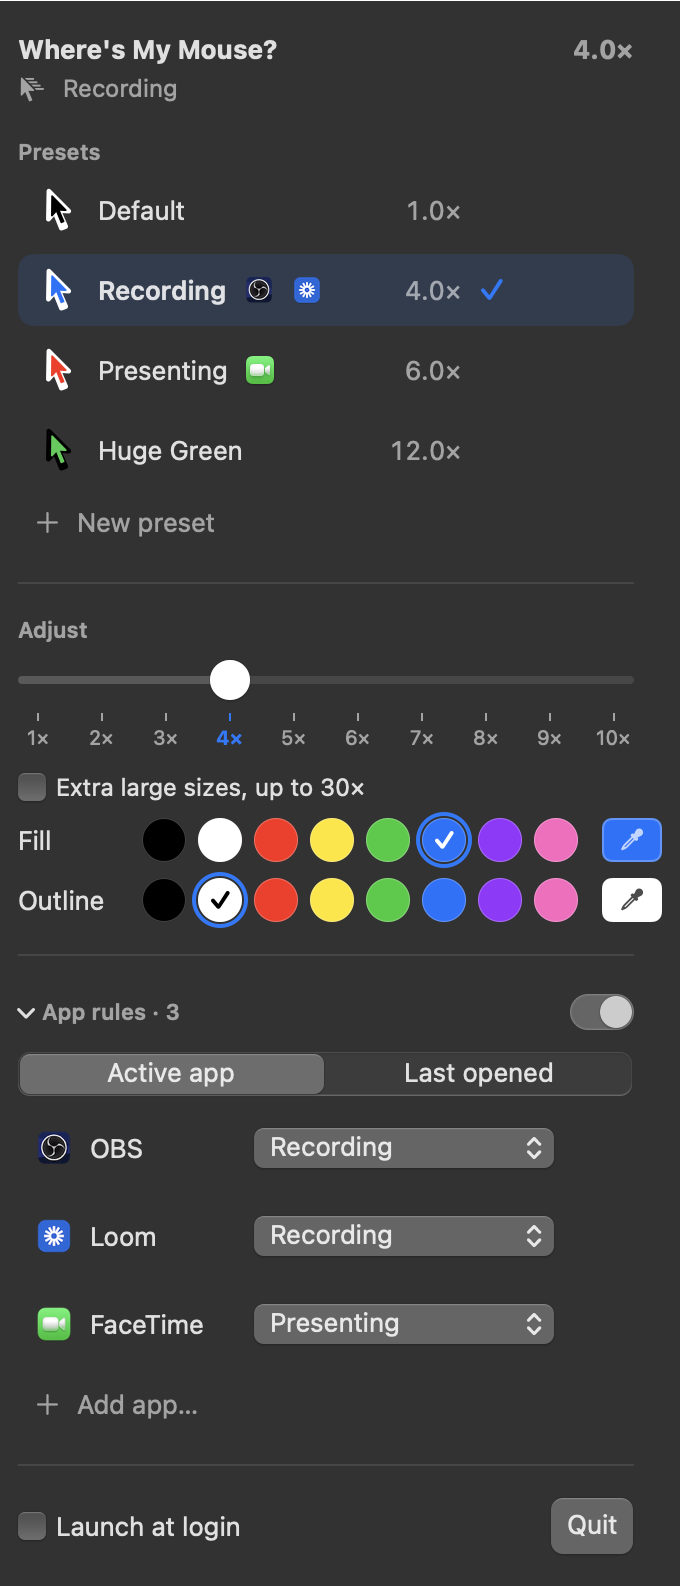
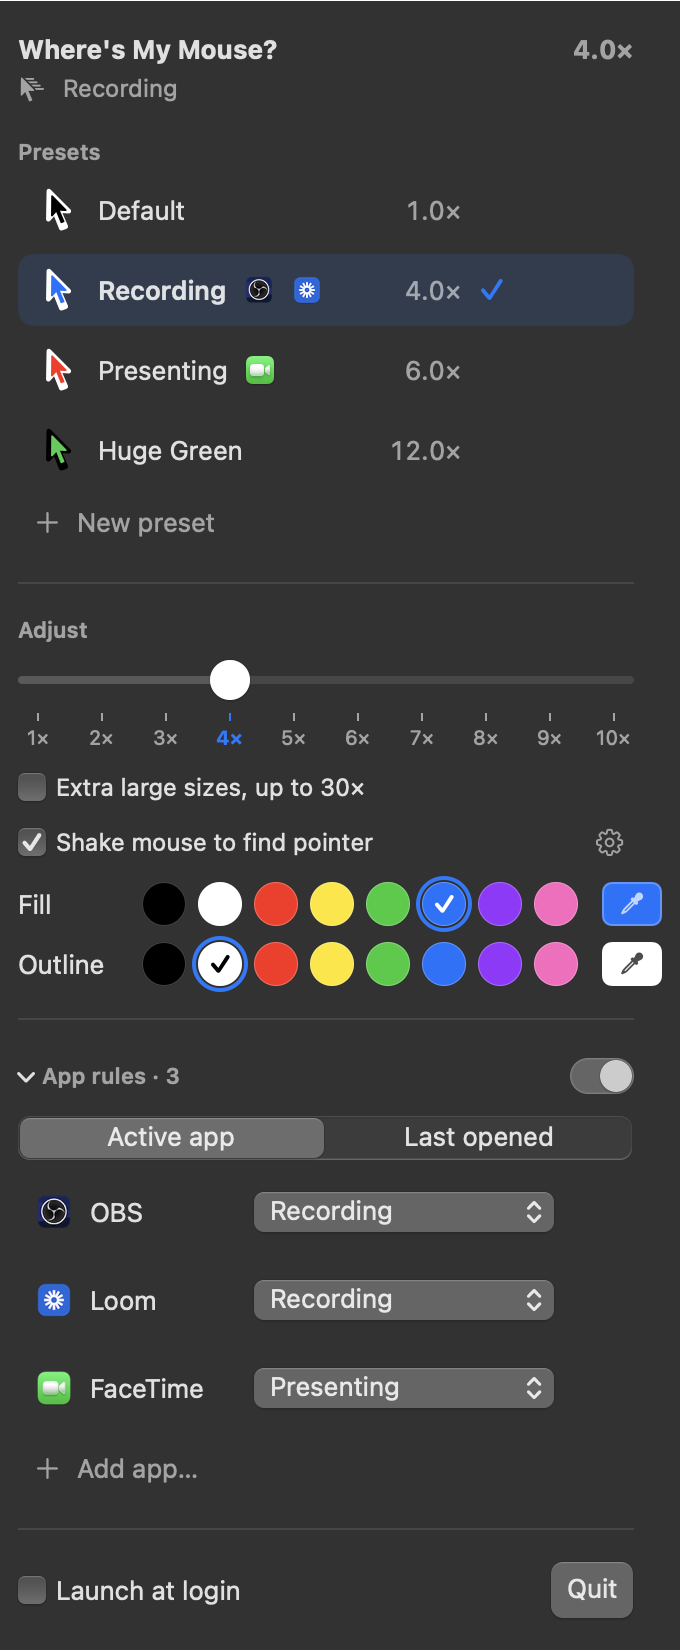
Shake-to-find toggle, explicit pin instead of auto re-pin, site Settings dropdown and new hero copy
- Menu: 'Shake mouse to find pointer' switch (+ link to Pointer settings)
- Picking a preset no longer moves app rules; a 'Pin X to App' button offers it
- Site: menu screenshot moved to a nav 'Settings' dropdown; hero copy about shaking, wiggling, slamming into corners

diff --git a/site/index.html b/site/index.html
@@ -66,7 +66,7 @@
   }
   .hero h1 .q { background: var(--rainbow); -webkit-background-clip: text; background-clip: text; color: transparent; }
   .hero .sub { font-size: clamp(22px, 2.6vw, 30px); color: var(--text); margin: 0 0 8px; font-weight: 700; }
-  .hero .joke { color: var(--muted); margin: 0 0 30px; }
+  .hero .joke { max-width: 540px; color: var(--muted); margin: 0 0 30px; }
   .btn {
     display: inline-flex; align-items: center; gap: 10px;
     background: var(--text); color: #0d0e16; font-weight: 800; font-size: 18px;
@@ -79,14 +79,26 @@
   .fine { color: var(--faint); font-size: 14px; margin-top: 14px; }
   .nomore { font-weight: 800; font-size: 19px; margin: -14px 0 28px; color: var(--blue-soft); }
 
+  /* "Settings" in the nav opens the real menu, like a menu bar item */
+  .settings { position: relative; }
+  #settings-btn { display: inline-flex; align-items: center; gap: 6px; border: 1px solid var(--line); background: var(--panel); color: var(--text);
+    font: inherit; font-size: 15px; font-weight: 700; padding: 6px 12px; border-radius: 999px; cursor: pointer; }
+  #settings-btn[aria-expanded=true] { background: var(--text); color: #0d0e16; }
+  .settings-pop { position: absolute; right: 0; top: calc(100% + 10px); z-index: 50; width: 340px; padding: 10px; border-radius: 16px;
+    background: rgba(23,26,42,0.96); border: 1px solid var(--line); box-shadow: 0 30px 90px rgba(0,0,0,0.6); }
+  .settings-pop img { display: block; width: 100%; height: auto; border-radius: 10px; }
+  .settings-pop p { margin: 10px 4px 2px; color: var(--muted); font-size: 14px; text-align: center; }
+  nav .links { align-items: center; }
+  @media (max-width: 560px) { .settings-pop { position: fixed; left: 16px; right: 16px; top: 64px; width: auto; max-height: 80vh; overflow: auto; } }
+
   /* hero art: a giant translucent rainbow pointer behind the hero */
   .hero-zone { position: relative; overflow: hidden; }
   .hero-art {
     position: absolute; z-index: 0; pointer-events: none;
-    top: 24px; right: -90px; width: min(60vw, 700px); height: auto; opacity: 0.5;
+    top: 40px; right: max(2vw, calc(50vw - 600px)); width: min(36vw, 440px); height: auto; opacity: 0.5;
   }
   .hero-zone .wrap { position: relative; z-index: 1; }
-  .hero-grid { display: grid; grid-template-columns: 0.85fr 1.15fr; gap: 48px; align-items: center; }
+  .hero-grid { display: grid; grid-template-columns: minmax(0, 760px); gap: 48px; align-items: center; }
   .hero-shot { justify-self: center; width: min(100%, 340px); }
   .hero-shot img { width: 100%; height: auto; border-radius: 16px; border: 1px solid var(--line); box-shadow: 0 30px 90px rgba(0,0,0,0.55); display: block; }
 
@@ -362,6 +374,15 @@
     <nav>
       <a class="brand" href="#"><img src="assets/icon.png" alt="">Where's My Mouse?</a>
       <div class="links">
+        <div class="settings">
+          <button type="button" id="settings-btn" aria-expanded="false" aria-controls="settings-pop">
+            <img src="assets/favicon.png" alt="" width="16" height="16"> Settings <span aria-hidden="true">▾</span>
+          </button>
+          <div class="settings-pop" id="settings-pop" hidden>
+            <img src="assets/menu-dark.png" width="340" height="825" alt="The Where's My Mouse? menu: presets with pinned apps, size slider, colors, and app rules">
+            <p>That's the whole app. It lives in your menu bar.</p>
+          </div>
+        </div>
         <a class="hide-sm" href="#uses">Use cases</a>
         <a class="hide-sm" href="#features">Features</a>
         <a class="hide-sm" href="#faq">FAQ</a>
@@ -371,14 +392,10 @@
 
     <header class="hero">
       <div class="hero-grid">
-        <div class="hero-shot">
-          <img src="assets/menu-dark.png" width="300" height="651"
-               alt="The Where's My Mouse? menu: presets with pinned apps, a size slider, fill and outline colors, and app rules">
-        </div>
         <div>
           <h1>Where's My<br><span class="q">Mouse?</span></h1>
-          <p class="sub">It's right there. It's enormous now.</p>
-          <p class="joke">Make your Mac's pointer up to 30× bigger, in any color, from the menu bar.</p>
+          <p class="sub">Stop shaking your mouse to find it.</p>
+          <p class="joke">We all do it: shake it, wiggle it, slam it into a corner of the screen. Where's My Mouse? makes your pointer impossible to miss instead, up to 30× bigger and in any color, right from the menu bar.</p>
           <p class="nomore">No more “Can you see my mouse?”</p>
           <a class="btn" href="https://github.com/andrewkamphey/WheresMyMouse/releases/latest/download/WheresMyMouse.dmg">
             <svg viewBox="0 0 24 24" fill="currentColor" aria-hidden="true"><path d="M16.4 12.6c0-2.6 2.1-3.8 2.2-3.9-1.2-1.8-3.1-2-3.7-2-1.6-.2-3.1.9-3.9.9-.8 0-2-.9-3.4-.9-1.7 0-3.3 1-4.2 2.6-1.8 3.1-.5 7.7 1.3 10.2.8 1.2 1.8 2.6 3.1 2.6 1.2-.1 1.7-.8 3.2-.8 1.5 0 1.9.8 3.2.8 1.3 0 2.2-1.2 3-2.4.9-1.4 1.3-2.7 1.3-2.8-.1 0-2.6-1-2.6-3.9zM13.9 5c.7-.8 1.1-1.9 1-3-1 0-2.2.7-2.9 1.5-.6.7-1.2 1.8-1 2.9 1.1.1 2.2-.6 2.9-1.4z"/></svg>
@@ -652,6 +669,16 @@
     window.addEventListener('resize', queue);
     toggle.addEventListener('click', function () { set(!root.classList.contains('grow-ptr')); });
     draw();
+  })();
+</script>
+<script>
+  // Nav "Settings": opens the menu screenshot like a menu bar dropdown; Escape or a click outside closes it.
+  (function () {
+    var btn = document.getElementById('settings-btn'), pop = document.getElementById('settings-pop');
+    function set(open) { pop.hidden = !open; btn.setAttribute('aria-expanded', String(open)); }
+    btn.addEventListener('click', function (e) { e.stopPropagation(); set(pop.hidden); });
+    document.addEventListener('click', function (e) { if (!pop.hidden && !pop.contains(e.target)) set(false); });
+    document.addEventListener('keydown', function (e) { if (e.key === 'Escape') set(false); });
   })();
 </script>
 </body>

diff --git a/Sources/PointerStore.swift b/Sources/PointerStore.swift
@@ -10,6 +10,7 @@ final class PointerStore: ObservableObject {
     @Published private(set) var customPresets: [Preset] = []
     @Published private(set) var hasFullDiskAccess = CursorController.hasFullDiskAccess
     @Published private(set) var launchAtLogin = SMAppService.mainApp.status == .enabled
+    @Published private(set) var shakeToLocate = CursorController.shakeToLocate
     /// The custom preset being edited, if any.
     @Published var editingPresetID: UUID?
     /// The preset last picked from the list (or by an app rule).
@@ -86,6 +87,7 @@ final class PointerStore: ObservableObject {
         outline = CursorController.outline ?? outline
         hasFullDiskAccess = CursorController.hasFullDiskAccess
         launchAtLogin = SMAppService.mainApp.status == .enabled
+        shakeToLocate = CursorController.shakeToLocate
     }
 
     // MARK: Live adjustments
@@ -165,18 +167,22 @@ final class PointerStore: ObservableObject {
     func select(_ preset: Preset) {
         if editingPresetID != preset.id { editingPresetID = nil }
         apply(preset)
-        repinControllingApp(to: preset)
     }
 
-    /// While a ruled app is in control (e.g. Claude is active), picking a preset pins that
-    /// app to it, so an app only ever shows on one preset.
-    private func repinControllingApp(to preset: Preset) {
+    /// When a ruled app is in control but the pointer is on a different preset, the rule
+    /// and that preset, so the menu can offer to pin it. Picking a preset never changes rules by itself.
+    var pinSuggestion: (rule: AppRule, preset: Preset)? {
         guard appRulesEnabled, let bundleID = activeRuleBundleID,
-              let index = appRules.firstIndex(where: { $0.bundleID == bundleID }),
-              appRules[index].presetID != preset.id else { return }
-        appRules[index].presetID = preset.id
-        saveAppRules()
-        flash(appRules[index])
+              let rule = appRules.first(where: { $0.bundleID == bundleID }),
+              let preset = allPresets.first(where: { $0.id == activePresetID }),
+              rule.presetID != preset.id else { return nil }
+        return (rule, preset)
+    }
+
+    func acceptPinSuggestion() {
+        guard let suggestion = pinSuggestion else { return }
+        setPreset(suggestion.preset.id, for: suggestion.rule)
+        if let rule = appRules.first(where: { $0.id == suggestion.rule.id }) { flash(rule) }
     }
 
     /// The user's own preset picked last, when the pointer has since been changed away from it.
@@ -396,6 +402,13 @@ final class PointerStore: ObservableObject {
         } else if hadRule, let preset = allPresets.first(where: { $0.id == Self.defaultPresetID }) {
             apply(preset)
         }
+    }
+
+    // MARK: Shake to locate
+
+    func setShakeToLocate(_ on: Bool) {
+        CursorController.setShakeToLocate(on)
+        shakeToLocate = CursorController.shakeToLocate
     }
 
     // MARK: Launch at login

diff --git a/Sources/MenuView.swift b/Sources/MenuView.swift
@@ -23,6 +23,7 @@ struct MenuView: View {
 
             if !store.hasFullDiskAccess { fullDiskAccessBanner }
             if let deleted = store.recentlyDeleted { undoBanner(deleted.preset) }
+            if let pin = store.pinSuggestion { pinBanner(pin.rule, pin.preset) }
 
             presetsSection
 
@@ -124,6 +125,18 @@ struct MenuView: View {
             SizeSlider(size: Binding(get: { store.size }, set: { store.setSize($0) }), maxSize: store.maxSize)
             Toggle("Extra large sizes, up to 30×", isOn: Binding(get: { store.extendedSizes }, set: { store.setExtendedSizes($0) }))
                 .font(.callout)
+            HStack {
+                Toggle("Shake mouse to find pointer", isOn: Binding(get: { store.shakeToLocate }, set: { store.setShakeToLocate($0) }))
+                    .font(.callout)
+                    .help("macOS's own trick: shake the mouse and the pointer briefly grows. Same switch as in Accessibility → Display.")
+                Spacer()
+                Button { CursorController.openPointerSettings() } label: {
+                    Image(systemName: "gearshape").frame(width: 24, height: 24).contentShape(Rectangle())
+                }
+                .buttonStyle(.borderless)
+                .help("Open the Pointer settings in System Settings")
+                .accessibilityLabel("Open Pointer settings in System Settings")
+            }
             ColorRow(title: "Fill", color: store.fill, target: .fill, onPick: store.setFill)
             ColorRow(title: "Outline", color: store.outline, target: .outline, onPick: store.setOutline)
         }
@@ -211,6 +224,21 @@ struct MenuView: View {
         }
         .padding(Grid.s + Grid.xs)
         .background(.orange.opacity(0.12), in: RoundedRectangle(cornerRadius: 10))
+    }
+
+    /// Offered when you pick a preset while an app rule is in control; rules only change on purpose.
+    private func pinBanner(_ rule: AppRule, _ preset: Preset) -> some View {
+        let current = store.allPresets.first { $0.id == rule.presetID }?.name ?? "Default"
+        return HStack(spacing: Grid.s) {
+            Text("\(rule.appName) uses \(current).").font(.callout).foregroundStyle(.secondary).lineLimit(1)
+            Spacer(minLength: Grid.xs)
+            Button("Pin \(preset.name) to \(rule.appName)") { store.acceptPinSuggestion() }
+                .controlSize(.large)
+                .lineLimit(1)
+        }
+        .padding(.horizontal, Grid.s + Grid.xs)
+        .padding(.vertical, Grid.s)
+        .background(Color.accentColor.opacity(0.12), in: RoundedRectangle(cornerRadius: 10))
     }
 
     private func undoBanner(_ preset: Preset) -> some View {

diff --git a/Sources/CursorController.swift b/Sources/CursorController.swift
@@ -94,6 +94,27 @@ enum CursorController {
         setSize(currentSize, persist: false)
     }
 
+    // MARK: Shake to locate
+
+    /// macOS's "Shake mouse pointer to locate". Stored as a global preference the window
+    /// server reads; absent means on.
+    private static let shakeKey = "CGDisableCursorLocationMagnification" as CFString
+
+    static var shakeToLocate: Bool {
+        let disabled = CFPreferencesCopyValue(shakeKey, kCFPreferencesAnyApplication, kCFPreferencesCurrentUser, kCFPreferencesAnyHost) as? Bool
+        return !(disabled ?? false)
+    }
+
+    static func setShakeToLocate(_ on: Bool) {
+        CFPreferencesSetValue(shakeKey, (!on) as CFBoolean, kCFPreferencesAnyApplication, kCFPreferencesCurrentUser, kCFPreferencesAnyHost)
+        CFPreferencesSynchronize(kCFPreferencesAnyApplication, kCFPreferencesCurrentUser, kCFPreferencesAnyHost)
+    }
+
+    /// The Pointer section of Accessibility settings, where the same switch lives.
+    static func openPointerSettings() {
+        NSWorkspace.shared.open(URL(string: "x-apple.systempreferences:com.apple.Accessibility-Settings.extension?Display")!)
+    }
+
     // MARK: Permissions
 
     /// Full Disk Access probe: the TCC database is only readable with it.

diff --git a/scripts/make_social.swift b/scripts/make_social.swift
@@ -65,7 +65,7 @@ ctx.restoreGState()
 srgb(1, 1, 1, 0.12).setStroke(); clip.lineWidth = 1.5; clip.stroke()
 
 // Big pointer in the "Recording" preset's colors, tapping its row
-let rowY = menuRect.maxY - menuH * (290.0 / 1586.0)
+let rowY = menuRect.maxY - menuH * (290.0 / 1650.0)
 pointer(tip: CGPoint(x: menuRect.minX + menuW * 0.72, y: rowY - 4), height: 170, fill: srgb(0, 0.45, 1), outline: .white)
 
 NSGraphicsContext.restoreGraphicsState()
